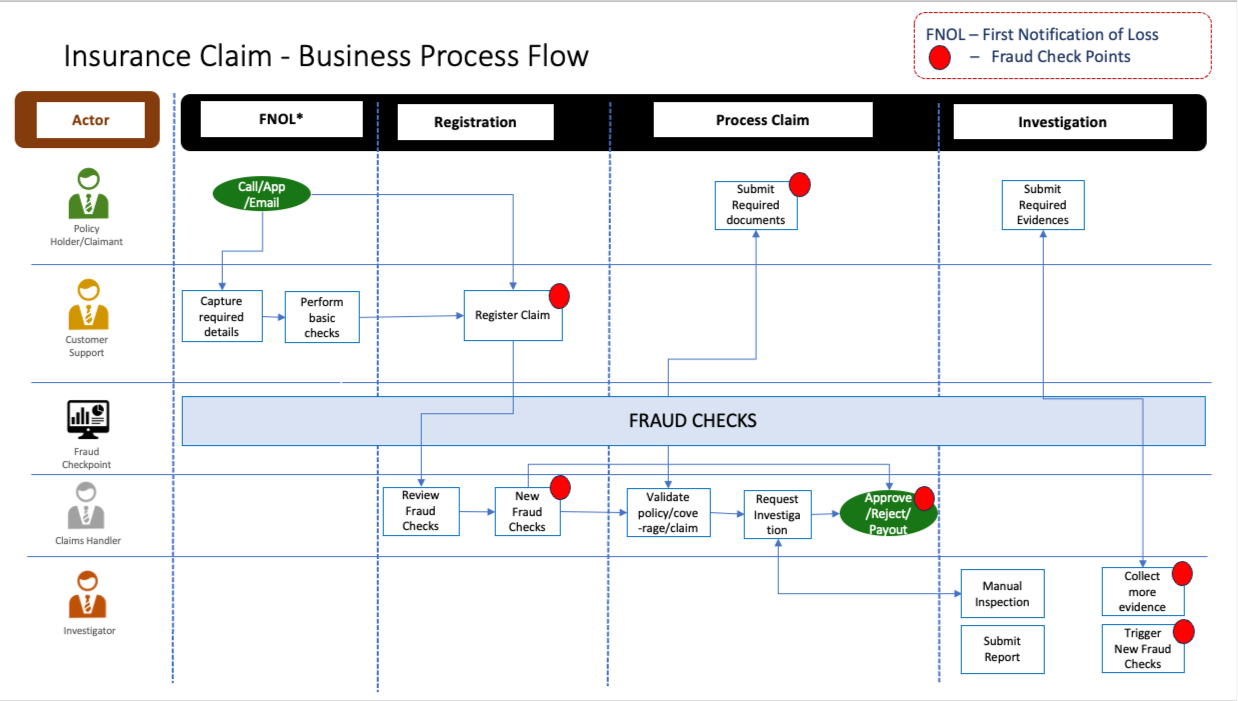
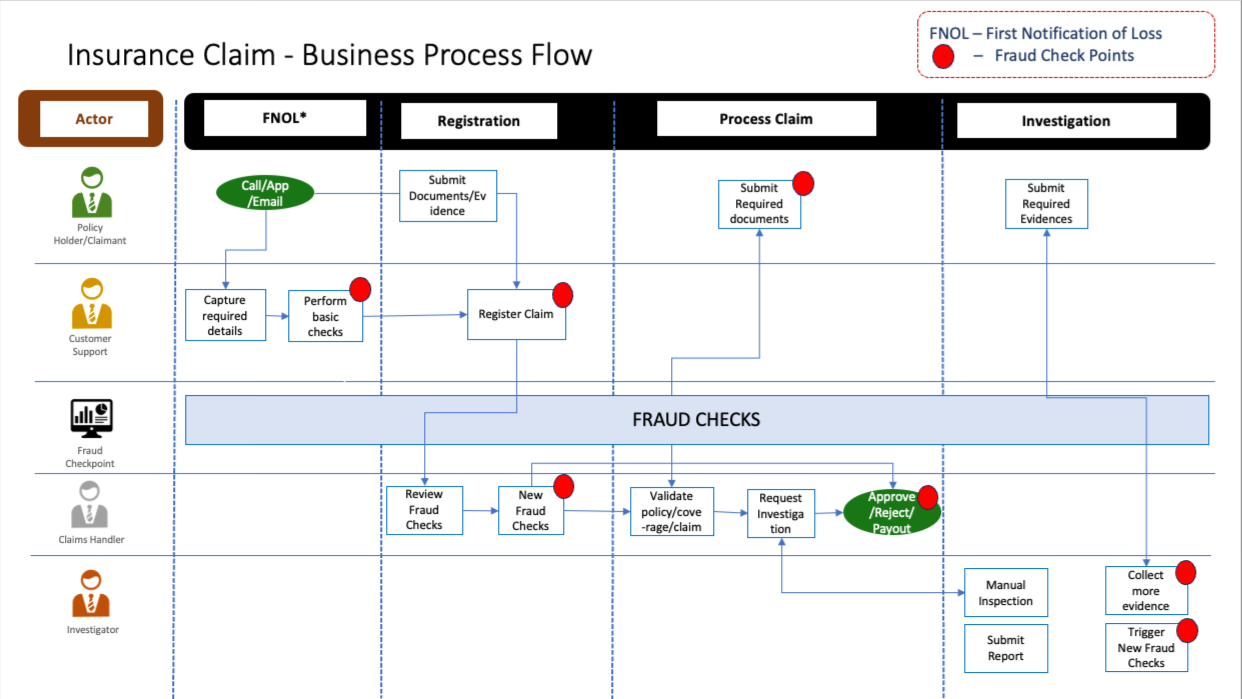
made changes to process image and added process flow

diff --git a/docs/business_architecture.md b/docs/business_architecture.md
@@ -1,0 +1,33 @@
+## 🏗️ Business Architecture
+
+The diagram below illustrates ClaimSense's three core operational flows — from initial setup through to batch fraud detection and individual claim deep-dives.
+
+![ClaimSense Business Architecture](/docs/images/business_flows.png)
+
+### Flow 1 — Onboarding
+The user connects ClaimSense to their data environment and configures the rule set before any analysis begins:
+
+1. **Configure DB connection** — point ClaimSense at your claims database; no data migration needed
+2. **Upload data dictionary** — map your schema so ClaimSense understands your data structure
+3. **Configure rules** — choose from standard out-of-the-box fraud rules and add custom insurer-defined rules
+
+### Flow 2 — Run Scenarios
+Once configured, ClaimSense runs a full batch analysis across all claims:
+
+1. **Initiate** — trigger a scenario run manually or on a schedule
+2. **Predictive modelling** — AI analyses patterns across your claims history
+3. **Check all claims** — every open and closed claim is evaluated against configured rules
+4. **Output** — each claim receives a fraud score (high / medium / low), a clear explainability summary, and is added to the adjuster's prioritised investigation queue
+
+### Flow 3 — Individual Claim Analysis
+For claims that need closer attention, adjusters can deep-dive a single claim:
+
+1. **Select claim** — pick any claim from the system
+2. **Predictive modelling** — run AI analysis on that specific claim
+3. **Run rules** — apply any or all configured rules to the claim
+4. **View results** — see the fraud score and the reasons behind it
+5. **Add a new rule** — define a custom condition based on what you observe
+6. **Test on claim** — instantly see the impact of the new rule on the selected claim
+7. **Save rule** — the new rule is saved and automatically applied in all future Flow 2 batch runs and individual claim analyses
+
+---